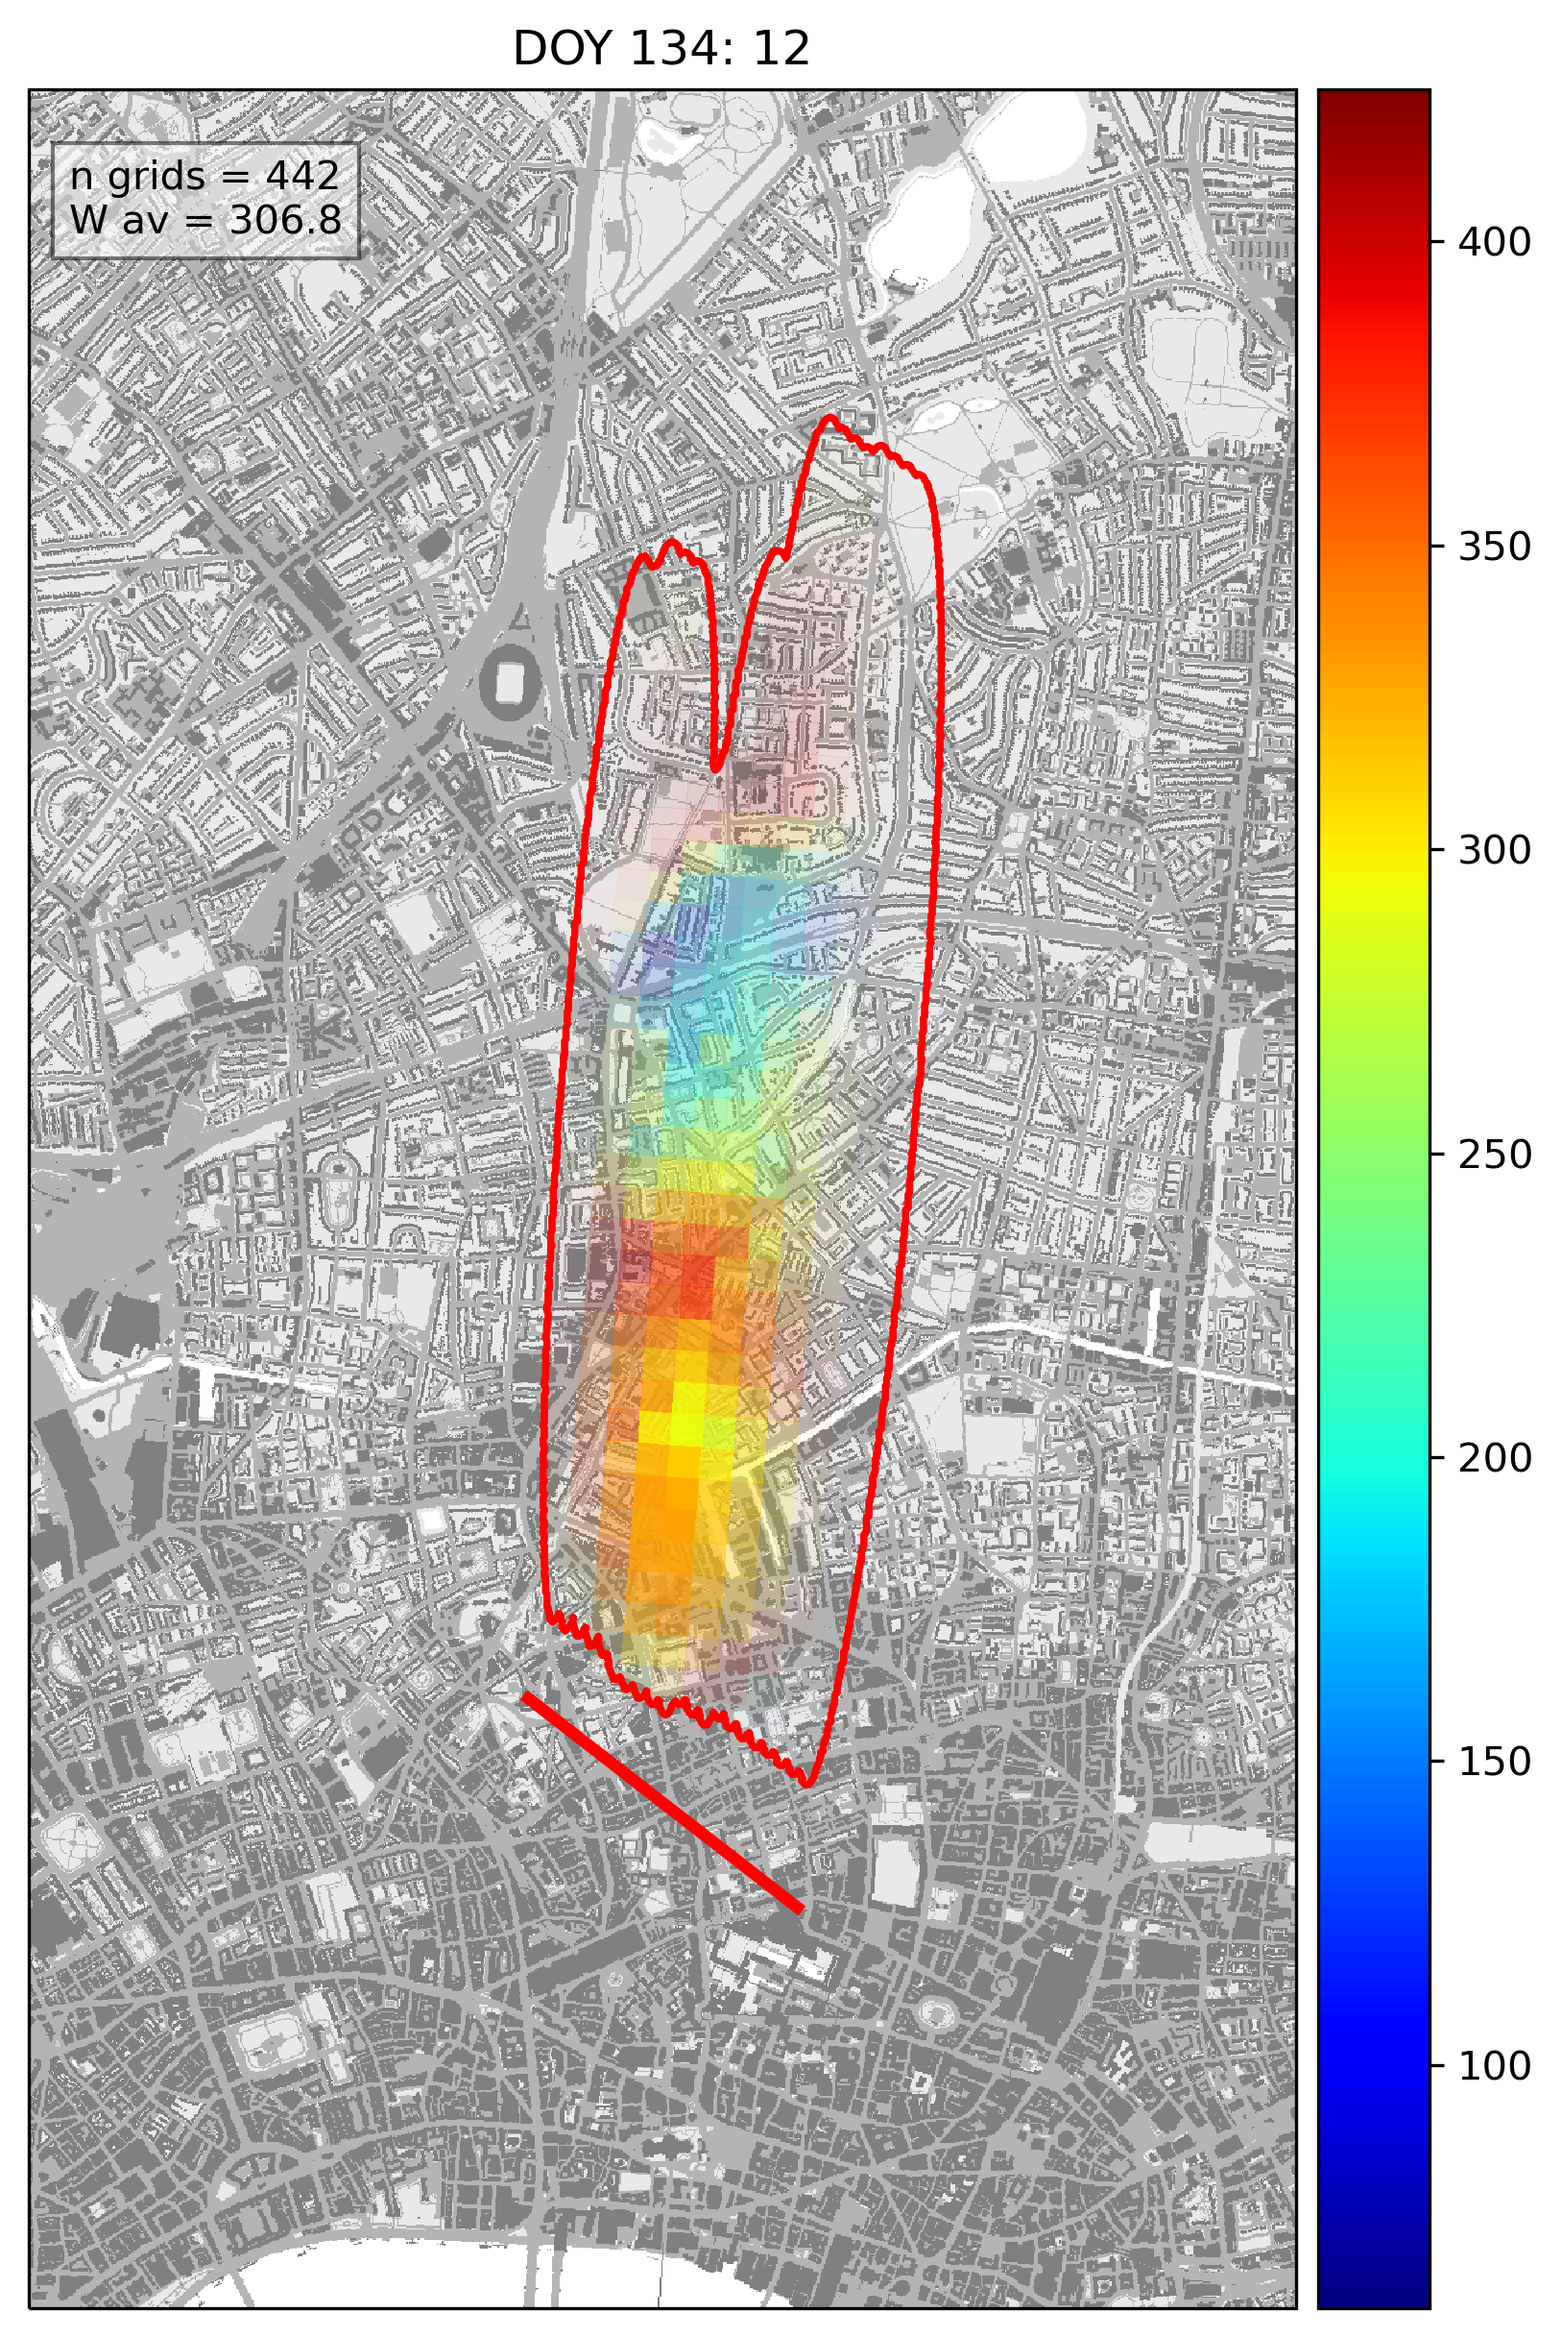
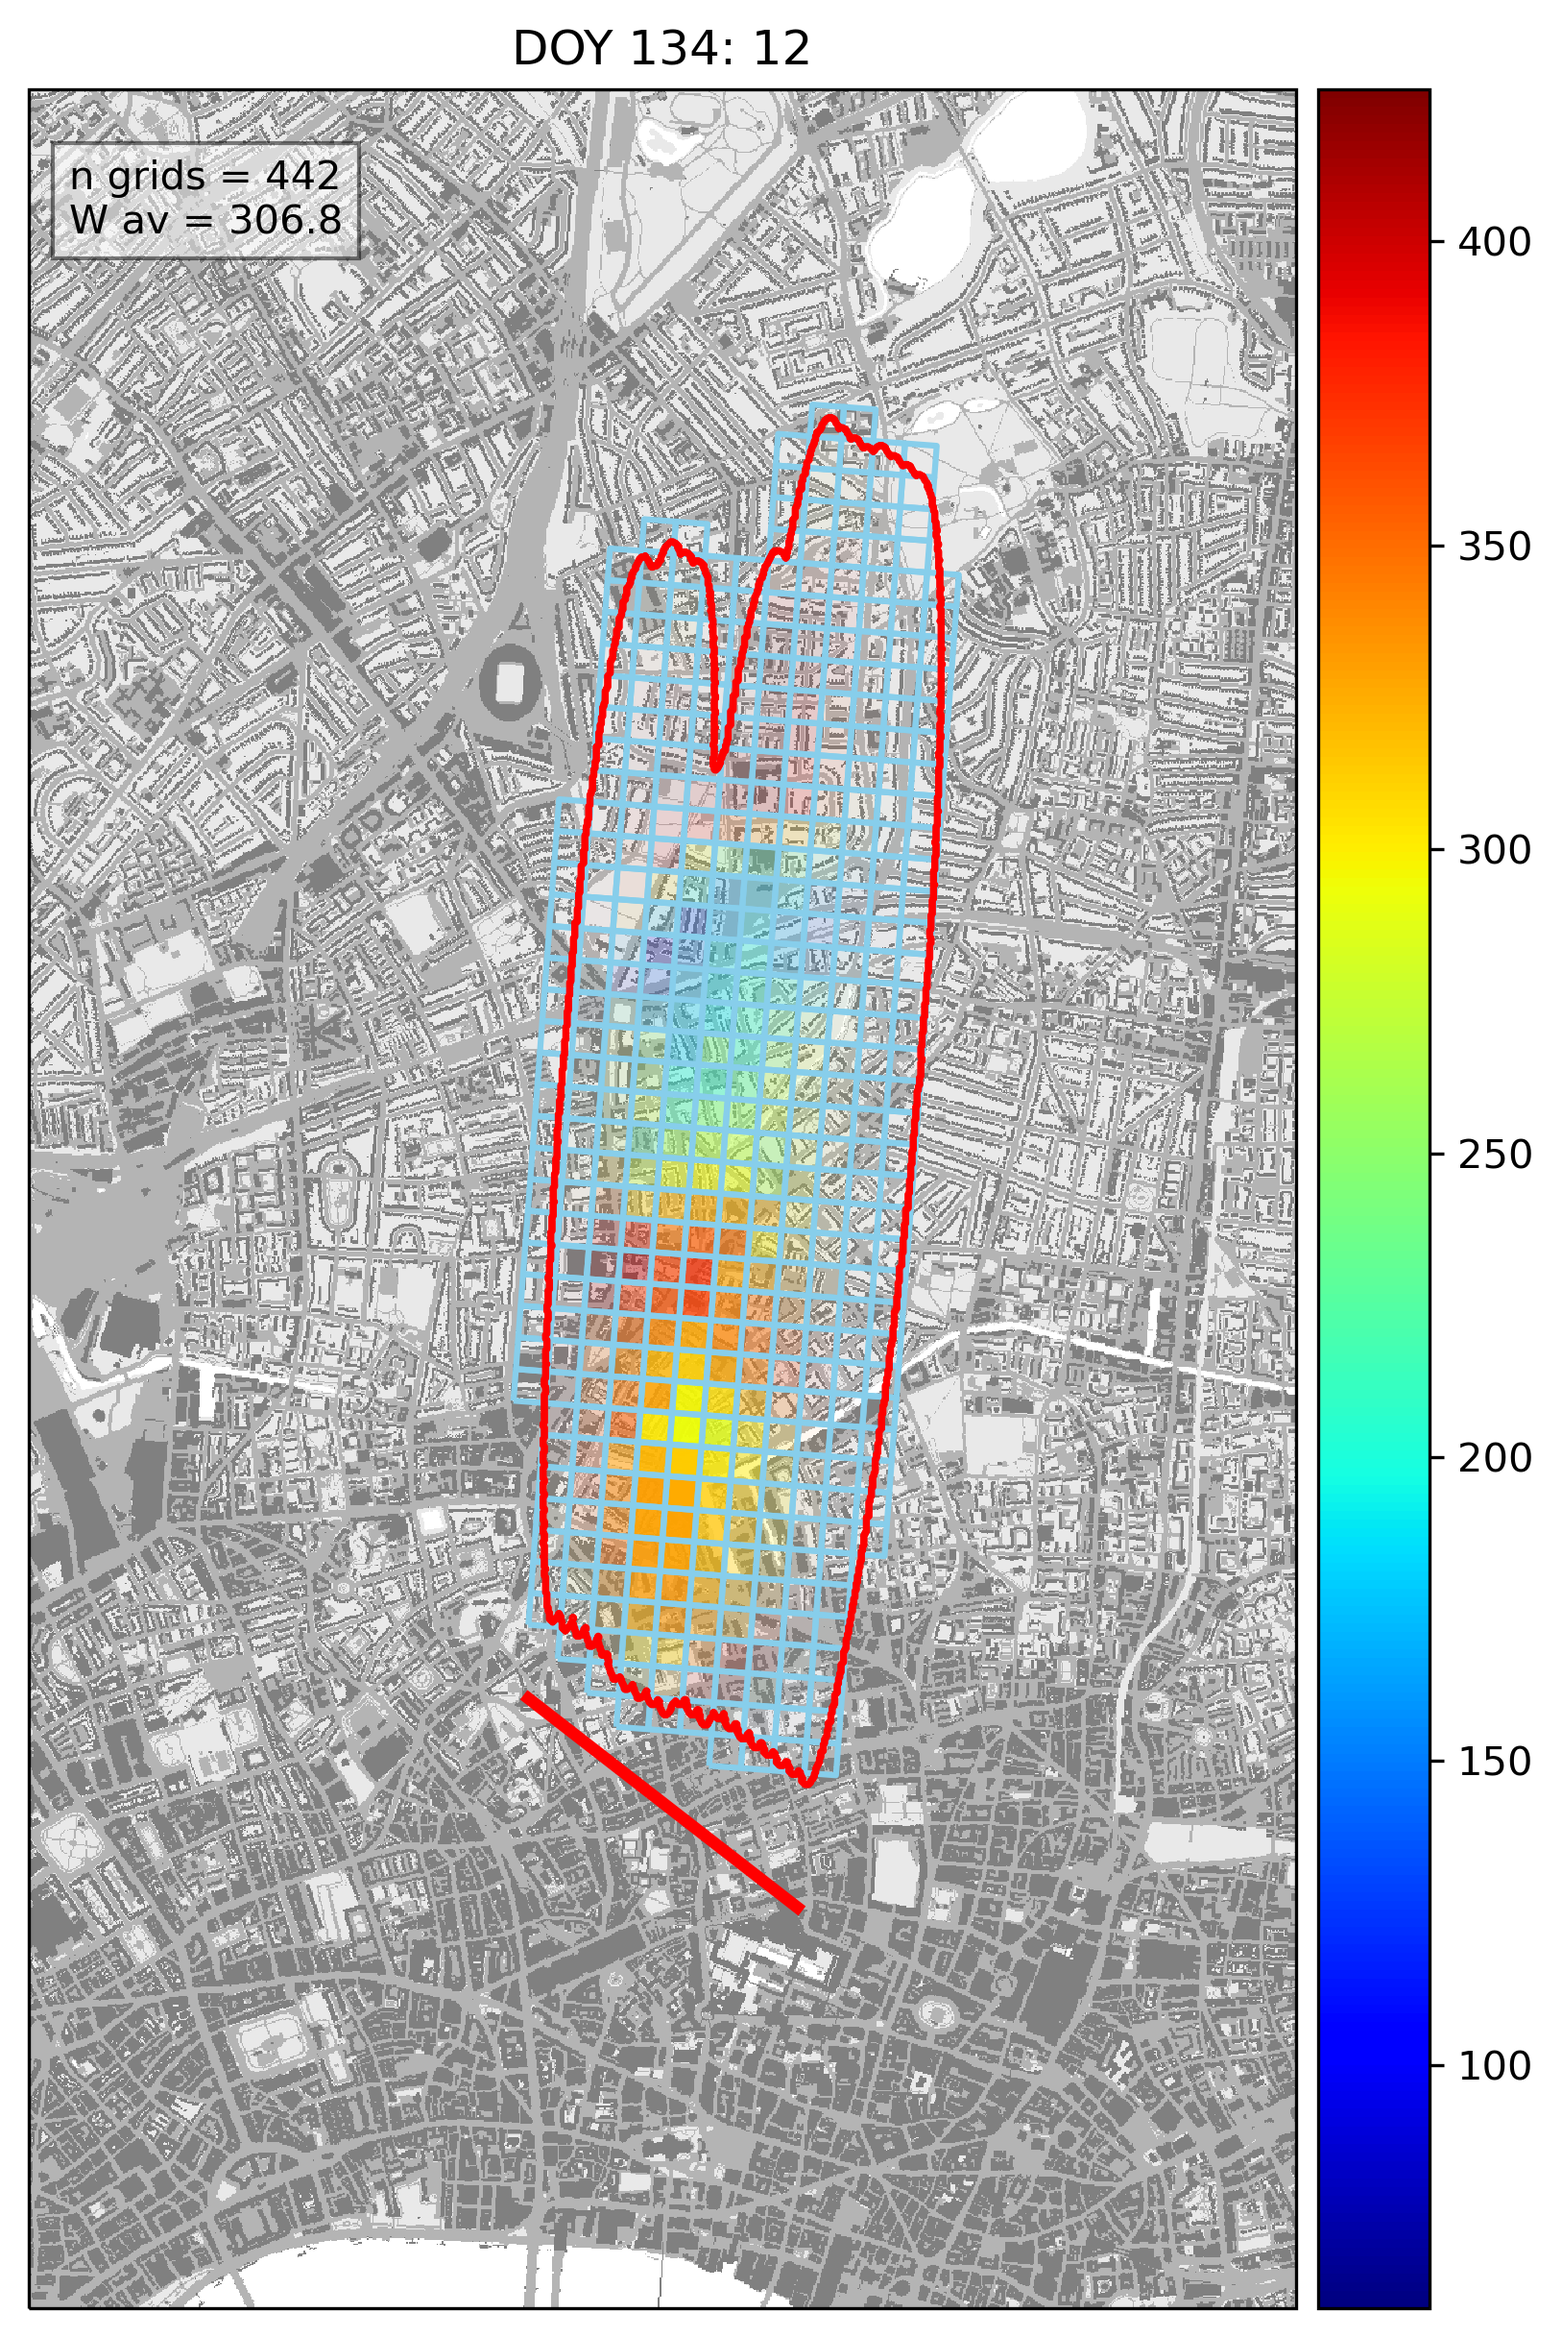
plot fix

Changed region(s): [[0.3073, 0.1562, 0.6146, 0.7809]]

diff --git a/scint_UM100/data_retreval/QH_alpha_plot.py b/scint_UM100/data_retreval/QH_alpha_plot.py
@@ -57,7 +57,7 @@ def QH_alpha_plot(target_hour, model, path, target_grid_coords, target_grid_list
     # plot the grid boundry box polygons
     grid_dir = 'D:/Documents/scint_UM100/scint_UM100/grid_coords/grid_coord_lookup/grid_polygons/UM' + model.split('m')[
         0] + '_shapes/'
-    for grid in target_grid_coords.dropna().grid.to_list():
+    for grid in target_grid_coords.grid.dropna().to_list():
         grid = int(grid)
         grid_file_path = grid_dir + str(grid) + '.gpkg'
 

diff --git a/scint_UM100/data_retreval/run_grab_model_data.py b/scint_UM100/data_retreval/run_grab_model_data.py
@@ -49,9 +49,9 @@ if __name__ == '__main__':
     target_hours = [6, 7, 8, 9, 10, 11, 12, 13, 14, 15, 16, 17, 18]
     # target_hours = [12]
 
-    model = '100m'
+    # model = '100m'
     # model = '300m'
-    # model = 'ukv'
+    model = 'ukv'
 
     run_all_grab(path, target_DOY, target_hours, model)
 
